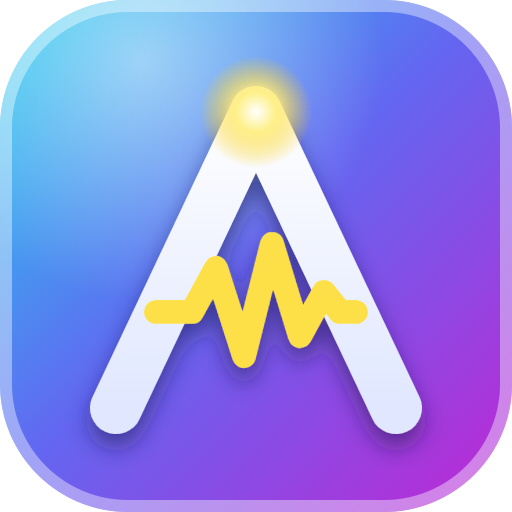
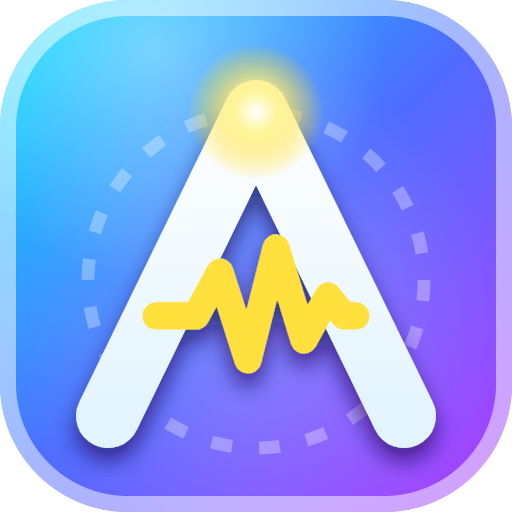
commit add

diff --git a/frontend/src/styles.css b/frontend/src/styles.css
@@ -1500,8 +1500,8 @@ button:focus-visible, a:focus-visible, input:focus-visible, select:focus-visible
   --border-strong: #344660;
   --border-hi: rgba(0, 212, 255, 0.55);
   --text: #f4f7ff;
-  --muted: #a4b0c4;
-  --placeholder: #6e7b92;
+  --muted: #b9c3d6;
+  --placeholder: #8693ab;
   --accent: #00d4ff;
   --accent-2: #00a8cc;
   --on-accent: #04121a;
@@ -1540,8 +1540,8 @@ button:focus-visible, a:focus-visible, input:focus-visible, select:focus-visible
   --border-strong: #c7d3e3;
   --border-hi: rgba(8, 126, 170, 0.55);
   --text: #142033;
-  --muted: #637087;
-  --placeholder: #8592a8;
+  --muted: #4e5b74;
+  --placeholder: #77849b;
   --accent: #087eaa;
   --accent-2: #066b91;
   --on-accent: #ffffff;
@@ -1665,3 +1665,96 @@ code, pre, kbd, samp { font-family: var(--font-mono); }
 .chat-bot.pulse { animation: pulse 1.4s ease-in-out infinite; }
 @media (max-width: 760px) { .chat-bot { width: 92px; height: 92px; } }
 @media (prefers-reduced-motion: reduce) { .chat-bot.pulse { animation: none; box-shadow: 0 0 0 4px #38e1ff; } }
+
+/* ===================== Brand + phone navigation (2026-11-20) =====================
+   One logo + name everywhere (<Brand />, ui.jsx): a bold, bright gradient wordmark that reads on
+   dark and light. Phones: logo in the top bar, search as an icon, and a bottom bar of
+   Home · Chat · Talk (voice) · Tasks · More with large touch targets. */
+.az-brand { display: inline-flex; align-items: center; gap: calc(var(--bs) * 0.34); line-height: 1; white-space: nowrap; }
+.az-brand-logo {
+  width: var(--bs); height: var(--bs); flex: none; border-radius: calc(var(--bs) * 0.26);
+  box-shadow: 0 4px 16px rgba(79, 107, 255, 0.5), 0 0 22px rgba(0, 229, 255, 0.28);
+}
+.az-brand-name {
+  font: 700 calc(var(--bs) * 0.7)/1.05 var(--font-display, 'Space Grotesk', Inter, sans-serif); letter-spacing: -0.02em;
+  background: linear-gradient(95deg, #ffffff 0%, #8ef3ff 36%, #aab8ff 66%, #eaa8ff 100%);
+  -webkit-background-clip: text; background-clip: text; color: transparent;
+  filter: drop-shadow(0 0 10px rgba(0, 229, 255, 0.3));
+}
+.az-brand-tag {
+  align-self: flex-start; margin: calc(var(--bs) * -0.04) 0 0 calc(var(--bs) * -0.2); padding: 2px 5px; border-radius: 6px;
+  font: 800 max(9px, calc(var(--bs) * 0.29))/1.1 var(--font-sans, Inter, sans-serif); letter-spacing: 0.06em; color: #fff;
+  background: linear-gradient(135deg, #00c6ff, #9b3cff); box-shadow: 0 2px 8px rgba(155, 60, 255, 0.4);
+}
+:root[data-theme='light'] .az-brand-name { background-image: linear-gradient(95deg, #0369a1 0%, #2454e6 45%, #6d35e8 75%, #a3179f 100%); filter: none; }
+:root[data-theme='light'] .az-brand-logo { box-shadow: 0 4px 14px rgba(79, 107, 255, 0.35); }
+.sb-brand, .topbar-brand { color: inherit; }
+
+/* Brighter, bolder sidebar text and group titles. */
+.sb-link { color: color-mix(in srgb, var(--text) 82%, var(--muted)); font-weight: 550; }
+.sb-group-title { font-weight: 700; color: color-mix(in srgb, var(--text) 55%, var(--muted)); }
+.sb-when-phone { display: none; }
+
+/* Top bar: brand button (shown on phones and when the desktop sidebar is collapsed). */
+.app .topbar .topbar-brand { display: none; align-items: center; padding: 3px; margin: 0; border: 0; border-radius: 10px; background: none; cursor: pointer; min-width: 0; }
+.app.collapsed .topbar .topbar-brand { display: inline-flex; }
+.topbar-search-btn { display: none; }
+
+@media (max-width: 760px) {
+  .sb-when-desk { display: none; }
+  .sb-when-phone { display: block; }
+  .app .sidebar.sb { width: min(86vw, 320px); }
+  .app .sidebar.sb .sb-link { height: 44px; font-size: 15.5px; }
+  .app .sidebar.sb .sb-ico { width: 32px; height: 32px; }
+  .app .sidebar.sb .sb-new, .app .sidebar.sb .sb-mic { height: 44px; }
+  .app .sidebar.sb .sb-mic { width: 44px; }
+  .app .sidebar.sb .sb-icon { width: 40px; height: 40px; }
+
+  .app .topbar { gap: 4px; min-height: 58px; padding: 7px 8px 7px 6px; }
+  .app .topbar .topbar-brand { display: inline-flex; flex: 1 1 auto; justify-content: flex-start; }
+  .app .topbar .topbar-where, .app .topbar .search-bar, .app .topbar .status-pill, .app .topbar .room-watch { display: none; }
+  .app .topbar .topbar-search-btn { display: inline-grid; }
+  .app .topbar .icon-btn { width: 40px; height: 40px; display: inline-grid; place-items: center; padding: 0; border-radius: 12px; font-size: 20px; }
+  .app .topbar .topbar-tools { gap: 2px; padding: 0; border: 0; background: none; }
+  .app .topbar .topbar-tools .icon-btn { width: 40px; height: 40px; }
+
+  .content { padding-bottom: calc(84px + env(safe-area-inset-bottom)); }
+  .bottom-nav {
+    align-items: flex-end; gap: 2px; padding: 6px 6px calc(6px + env(safe-area-inset-bottom));
+    background: color-mix(in srgb, var(--panel-solid) 94%, transparent); backdrop-filter: saturate(150%) blur(14px);
+    border-top: 1px solid var(--border); box-shadow: 0 -8px 28px rgba(0, 0, 0, 0.28);
+  }
+  .bottom-nav button { min-height: 54px; justify-content: center; font-size: 12px; font-weight: 700; color: color-mix(in srgb, var(--text) 70%, var(--muted)); }
+  .bottom-nav button .icon { color: hsl(var(--hue) 85% var(--icon-l)); }
+  .bottom-nav button.active { color: var(--text); background: hsl(var(--hue) 85% 60% / 0.16); box-shadow: inset 0 0 0 1px hsl(var(--hue) 85% 60% / 0.3); }
+  .bottom-nav button:last-child .icon { color: hsl(220 70% var(--icon-l)); }
+  .bottom-nav .bottom-voice { position: relative; padding-top: 0; background: none !important; box-shadow: none !important; color: var(--text); }
+  .bottom-voice-orb {
+    display: grid; place-items: center; width: 58px; height: 58px; margin-top: -26px; border-radius: 50%; color: #fff;
+    background: linear-gradient(135deg, #00d4ff 0%, #4f6bff 55%, #b13cff 100%);
+    border: 4px solid var(--panel-solid); box-shadow: 0 8px 22px rgba(79, 107, 255, 0.5), 0 0 24px rgba(0, 212, 255, 0.35);
+    transition: transform 0.15s;
+  }
+  .bottom-voice-orb .icon { color: #fff !important; }
+  .bottom-voice:active .bottom-voice-orb { transform: scale(0.94); }
+  .bottom-voice:disabled { opacity: 0.55; }
+  /* Bigger, brighter page titles and text on phones. */
+  .page-head h2 { font-size: 25px; font-weight: 800; }
+  .page-head p { font-size: 14.5px; }
+}
+@media (prefers-reduced-motion: reduce) { .bottom-voice-orb { transition: none; } }
+@media (max-width: 760px) {
+  .app .topbar .icon-btn.room-watch { display: none; }
+  /* Home on phones: the two main buttons side by side at the same height, status underneath. */
+  .cc .cc-hero-side { display: grid; grid-template-columns: 1fr 1fr; grid-template-areas: 'start game' 'link link' 'pill op'; gap: 10px; align-items: center; width: 100%; }
+  .cc .cc-start { display: contents; }
+  .cc .cc-start-btn { grid-area: start; }
+  .cc .cc-game-btn { grid-area: game; }
+  .cc .cc-start-btn, .cc .cc-game-btn { width: 100%; min-height: 50px; margin: 0; justify-content: center; font-size: 15.5px; font-weight: 700; }
+  .cc .cc-start-link { grid-area: link; justify-self: start; }
+  .cc .cc-pill { grid-area: pill; justify-self: start; }
+  .cc .cc-operator { grid-area: op; justify-self: end; }
+  .cc .cc-insights-head { flex-wrap: wrap; row-gap: 2px; }
+  .cc .cc-insights-head strong { white-space: nowrap; }
+  .cc .cc-insights-head small { flex-basis: 100%; margin-left: 0; }
+}

diff --git a/frontend/src/App.jsx b/frontend/src/App.jsx
@@ -10,7 +10,7 @@ import './components/AppShell.css';
 import ThemeMenu from './components/ThemeMenu.jsx';
 import { Icon } from './icons.jsx';
 import { useTheme } from './theme.js';
-import { toast, Toaster } from './ui.jsx';
+import { Brand, toast, Toaster } from './ui.jsx';
 import { share, useInstall } from './pwa.js';
 
 // Aamir Hussain Azad's portfolio: linked from the top bar and the command palette.
@@ -177,8 +177,9 @@ const SIDEBAR_QUICK_ACTIONS = {
     { icon: 'help', label: 'Troubleshoot the service', hint: 'Describe an admin issue', prompt: 'Help me troubleshoot this Azarvis admin issue: ', send: false },
   ],
 };
-// Phones: the main tabs sit in a bar at the bottom, everything else is under "More" (the sidebar).
-const BOTTOM_TABS = ['home', 'chat', 'notes', 'mllab'];
+// Phones: the main tabs sit in a bar at the bottom around a big voice button; everything else is
+// under "More" (the sidebar, which slides in).
+const BOTTOM_TABS = ['home', 'chat', 'tasks'];
 // A link like /?tab=mllab (the installed app's shortcuts) opens that tab.
 const startTab = () => {
   const wanted = new URLSearchParams(window.location.search).get('tab');
@@ -391,6 +392,7 @@ export default function App() {
     ...(installer.installed ? [] : [{ icon: 'download', label: 'Install app', onClick: installApp }]),
     { icon: 'share', label: 'Share Azarvis', onClick: shareJarvis },
     { icon: 'phone', label: 'Azarvis on your phone', onClick: () => go('automate') },
+    ...(isPhone() ? [{ icon: 'eye', label: roomWatchOn ? 'Turn off Room Watch' : 'Turn on Room Watch', onClick: () => setRoomWatchOn((on) => !on) }] : []),
     { icon: 'help', label: 'Help & commands', hint: 'Ctrl K', onClick: () => { setPaletteQuery(''); setPaletteOpen(true); } },
     'divider',
     { icon: 'logout', label: 'Sign out', onClick: logout, danger: true },
@@ -438,11 +440,11 @@ export default function App() {
       <aside className={`sidebar sb ${menuOpen ? 'open' : ''}`}>
         <div className="sb-head">
           <button type="button" className="sb-brand" onClick={() => go('home')} aria-label="Azarvis home">
-            <img src="/icon.svg" alt="" width="28" height="28" />
-            <span>Azarvis</span>
+            <Brand size={32} tag />
           </button>
-          <button className="sb-icon" onClick={toggleMenu} title="Collapse sidebar" aria-label="Collapse sidebar">
-            <Icon name="panelClose" size="1.15em" />
+          <button className="sb-icon" onClick={toggleMenu} title={menuOpen ? 'Close menu' : 'Collapse sidebar'} aria-label={menuOpen ? 'Close menu' : 'Collapse sidebar'}>
+            <Icon name="panelClose" size="1.15em" className="sb-when-desk" />
+            <Icon name="x" size="1.25em" className="sb-when-phone" />
           </button>
         </div>
         <div className="sb-start">
@@ -501,7 +503,7 @@ export default function App() {
       <main className="main">
         <header className="topbar">
           <button className={`icon-btn menu ${collapsed ? 'menu--expand' : ''}`} onClick={toggleMenu} aria-label={collapsed ? 'Show sidebar' : 'Menu'} title={collapsed ? 'Show sidebar' : 'Menu'}><Icon name="menu" className="menu-burger" /><Icon name="panelOpen" className="menu-expand" /></button>
-          <span className="topbar-brand" aria-hidden="true"><img className="brand-logo" src="/icon.svg" alt="" width="26" height="26" />Azarvis</span>
+          <button type="button" className="topbar-brand" onClick={() => go('home')} aria-label="Azarvis home"><Brand size={30} /></button>
           {/* Where you are (the sidebar is where you switch); not a second menu. */}
           {(() => {
             const current = TABS.find((t) => t.id === tab);
@@ -539,6 +541,7 @@ export default function App() {
               enterKeyHint="search"
             />
           </form>
+          <button type="button" className="icon-btn topbar-search-btn" onClick={() => openSearch('')} aria-label="Search everything" title="Search everything"><Icon name="search" /></button>
           <SystemStatusPill onOpen={() => go('command')} />
           <div className="topbar-tools" role="toolbar" aria-label="Quick actions">
           <button
@@ -634,13 +637,25 @@ export default function App() {
       </Suspense>
       )}
       <nav className="bottom-nav" aria-label="Main (phone)">
-        {tabs.filter((t) => BOTTOM_TABS.includes(t.id)).map((t) => (
-          <button key={t.id} className={tab === t.id ? 'active' : ''} style={{ '--hue': t.hue }} onClick={() => go(t.id)} aria-current={tab === t.id ? 'page' : undefined}>
-            <Icon name={t.icon} size="1.4em" />
-            <span>{t.label}</span>
-          </button>
-        ))}
-        <button className={menuOpen || !BOTTOM_TABS.includes(tab) ? 'active' : ''} onClick={() => setMenuOpen(true)} aria-label="More: tasks, memory, settings">
+        {BOTTOM_TABS.map((id, i) => {
+          const t = tabs.find((x) => x.id === id);
+          if (!t) return null;
+          const button = (
+            <button key={t.id} className={tab === t.id ? 'active' : ''} style={{ '--hue': NAV_HUES[t.id] ?? t.hue }} onClick={() => go(t.id)} aria-current={tab === t.id ? 'page' : undefined}>
+              <Icon name={t.icon} size="1.4em" />
+              <span>{t.id === 'tasks' ? 'Tasks' : t.label}</span>
+            </button>
+          );
+          return i === 2 ? [
+            <button key="voice" className="bottom-voice" onClick={() => startSession()} disabled={!voiceSupported}
+              aria-label={voiceSupported ? 'Talk to Azarvis' : 'Voice needs Chrome or Edge'} title={voiceSupported ? 'Talk to Azarvis' : 'Voice needs Chrome or Edge'}>
+              <span className="bottom-voice-orb"><Icon name="mic" size="1.5em" /></span>
+              <span>Talk</span>
+            </button>,
+            button,
+          ] : button;
+        })}
+        <button className={menuOpen || !BOTTOM_TABS.includes(tab) ? 'active' : ''} style={{ '--hue': 220 }} onClick={() => setMenuOpen(true)} aria-label="More: every screen, settings and your account">
           <Icon name="menu" size="1.4em" />
           <span>More</span>
         </button>

diff --git a/frontend/src/public.css b/frontend/src/public.css
@@ -975,8 +975,6 @@ body:has(.pub) { background: #0b0d12; }
 .snav--scrolled { box-shadow: 0 1px 2px rgba(0, 0, 0, 0.12), 0 4px 16px rgba(0, 0, 0, 0.10); }
 .snav-inner { width: min(1280px, calc(100% - 2 * var(--gutter))); margin-inline: auto; height: var(--snav-h); display: flex; align-items: center; gap: 8px; }
 .snav-brand { display: inline-flex; align-items: center; gap: 10px; flex: none; margin-right: 12px; text-decoration: none; color: var(--text); border-radius: 10px; }
-.snav-brand img { width: 32px; height: 32px; border-radius: 9px; }
-.snav-brand span { font: 700 21px/1 Inter, system-ui, sans-serif; letter-spacing: -0.02em; }
 .snav-links { display: flex; align-items: stretch; height: 100%; gap: 2px; min-width: 0; }
 .snav-links button {
   position: relative; display: inline-flex; align-items: center; gap: 6px; height: 100%; padding: 0 12px; border: 0; background: none; cursor: pointer;
@@ -1024,7 +1022,7 @@ body:has(.pub) { background: #0b0d12; }
   .snav { --snav-h: 58px; }
   .snav-hide-sm { display: none; }
   .snav-btn--outlined { height: 36px; padding: 0 14px; }
-  .snav-brand span { font-size: 19px; }
+  .snav-brand .az-brand { --bs: 30px; }
   .snav-drawer-cta { grid-template-columns: 1fr; }
 }
 @media (prefers-reduced-motion: reduce) {

diff --git a/frontend/src/ui.jsx b/frontend/src/ui.jsx
@@ -26,6 +26,20 @@ export function PageHeader({ icon, hue = 190, title, subtitle, children, art, ar
   );
 }
 
+/**
+ * The Azarvis logo and name, the same everywhere (sidebar, phone top bar, website, sign-in).
+ * `size` is the logo's height in px; the name scales with it. `tag` adds the small "AI" badge.
+ */
+export function Brand({ size = 30, tag = false, className = '' }) {
+  return (
+    <span className={`az-brand ${className}`} style={{ '--bs': `${size}px` }}>
+      <img className="az-brand-logo" src="/icon.svg" alt="" width={size} height={size} />
+      <span className="az-brand-name">Azarvis</span>
+      {tag && <span className="az-brand-tag">AI</span>}
+    </span>
+  );
+}
+
 export function EmptyState({ icon = 'sparkles', title, children }) {
   return (
     <div className="empty">

diff --git a/frontend/src/components/AppShell.css b/frontend/src/components/AppShell.css
@@ -9,8 +9,6 @@
 :root[data-theme='light'] .app .sidebar.sb { background: var(--surface); }
 .sb-head { display: flex; align-items: center; justify-content: space-between; gap: 8px; padding: 2px 4px 10px; }
 .sb-brand { display: inline-flex; align-items: center; gap: 10px; padding: 4px; margin: -4px; border: 0; border-radius: var(--radius-sm); background: none; cursor: pointer; color: var(--text); }
-.sb-brand img { border-radius: 8px; }
-.sb-brand span { font: 700 19px/1 var(--font-display); letter-spacing: -0.02em; }
 .sb-icon { display: grid; place-items: center; width: 32px; height: 32px; border: 0; border-radius: var(--radius-sm); background: none; color: var(--muted); cursor: pointer; }
 .sb-icon:hover { color: var(--text); background: var(--surface-2); }
 

diff --git a/frontend/src/components/PublicSite.jsx b/frontend/src/components/PublicSite.jsx
@@ -1,7 +1,7 @@
 import { lazy, Suspense, useCallback, useEffect, useState } from 'react';
 import { pageView, track } from '../analytics.js';
 import { Icon } from '../icons.jsx';
-import { Toaster } from '../ui.jsx';
+import { Brand, Toaster } from '../ui.jsx';
 import Landing from './Landing.jsx';
 import Login from './Login.jsx';
 import SiteFooter from './SiteFooter.jsx';
@@ -111,8 +111,7 @@ function PublicNav({ page, theme, onNavigate, onSection }) {
           }}
           aria-label="Azarvis home"
         >
-          <img src="/icon.svg" alt="" width="32" height="32" />
-          <span>Azarvis</span>
+          <Brand size={34} />
         </a>
 
         <nav className="snav-links" aria-label="Website">

diff --git a/frontend/src/components/Login.jsx b/frontend/src/components/Login.jsx
@@ -210,7 +210,7 @@ export default function Login({ onAuth, initialStep = 'login', onDemo, onHome })
       <div className="card login">
         <header className="login-brand">
           <img src="/icon.svg" alt="" width="56" height="56" className="login-logo" />
-          <span className="login-wordmark">Azarvis</span>
+          <span className="login-wordmark az-brand-name" style={{ '--bs': '42px' }}>Azarvis</span>
           <span className="login-tagline">AI voice assistant by Aamir Hussain Azad</span>
         </header>
 

diff --git a/frontend/public/sw.js b/frontend/public/sw.js
@@ -1,6 +1,6 @@
 // Azarvis service worker: makes Azarvis installable and lets the app open instantly (and show its
 // screen even offline). It never stores /api responses: those are private and always live.
-const CACHE = 'jarvis-shell-v1';
+const CACHE = 'jarvis-shell-v2'; // v2: new logo (2026-11-20)
 const SHELL = ['/', '/manifest.webmanifest', '/icon.svg', '/icon-192.png'];
 
 self.addEventListener('install', (event) => {

diff --git a/docs/DESIGN_SYSTEM.md b/docs/DESIGN_SYSTEM.md
@@ -16,7 +16,7 @@ the public website (`frontend/src/public.css`, last block) and the static conten
 | `--on-accent` | `#04121A` | `#FFFFFF` | Text on `--accent` (cyan needs dark text for contrast) |
 | `--violet` | `#8067FF` | `#6851D9` | Secondary accent |
 | `--ok` / `--warn` / `--danger` | `#22C58B` / `#F5B942` / `#FF5263` | `#16875D` / `#B87912` / `#D83F51` | Status only |
-| `--text` / `--muted` | `#F4F7FF` / `#A4B0C4` | `#142033` / `#637087` | Text |
+| `--text` / `--muted` | `#F4F7FF` / `#B9C3D6` | `#142033` / `#4E5B74` | Text |
 | `--border` | `#26344B` | `#DCE4EF` | Lines and card edges |
 
 ## Type
